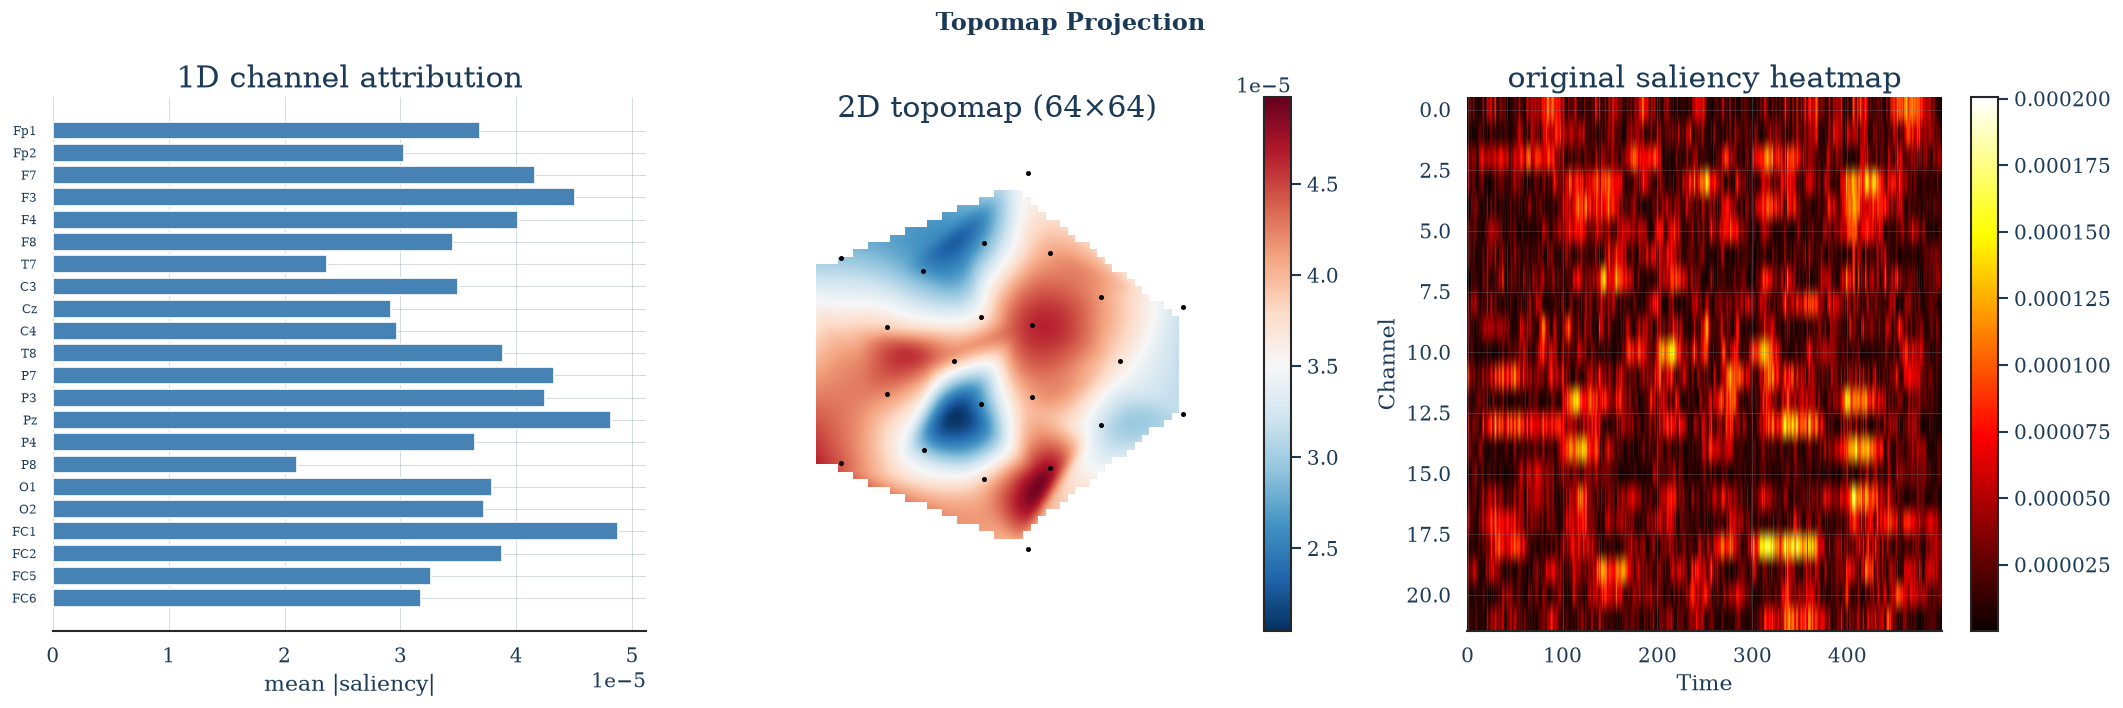
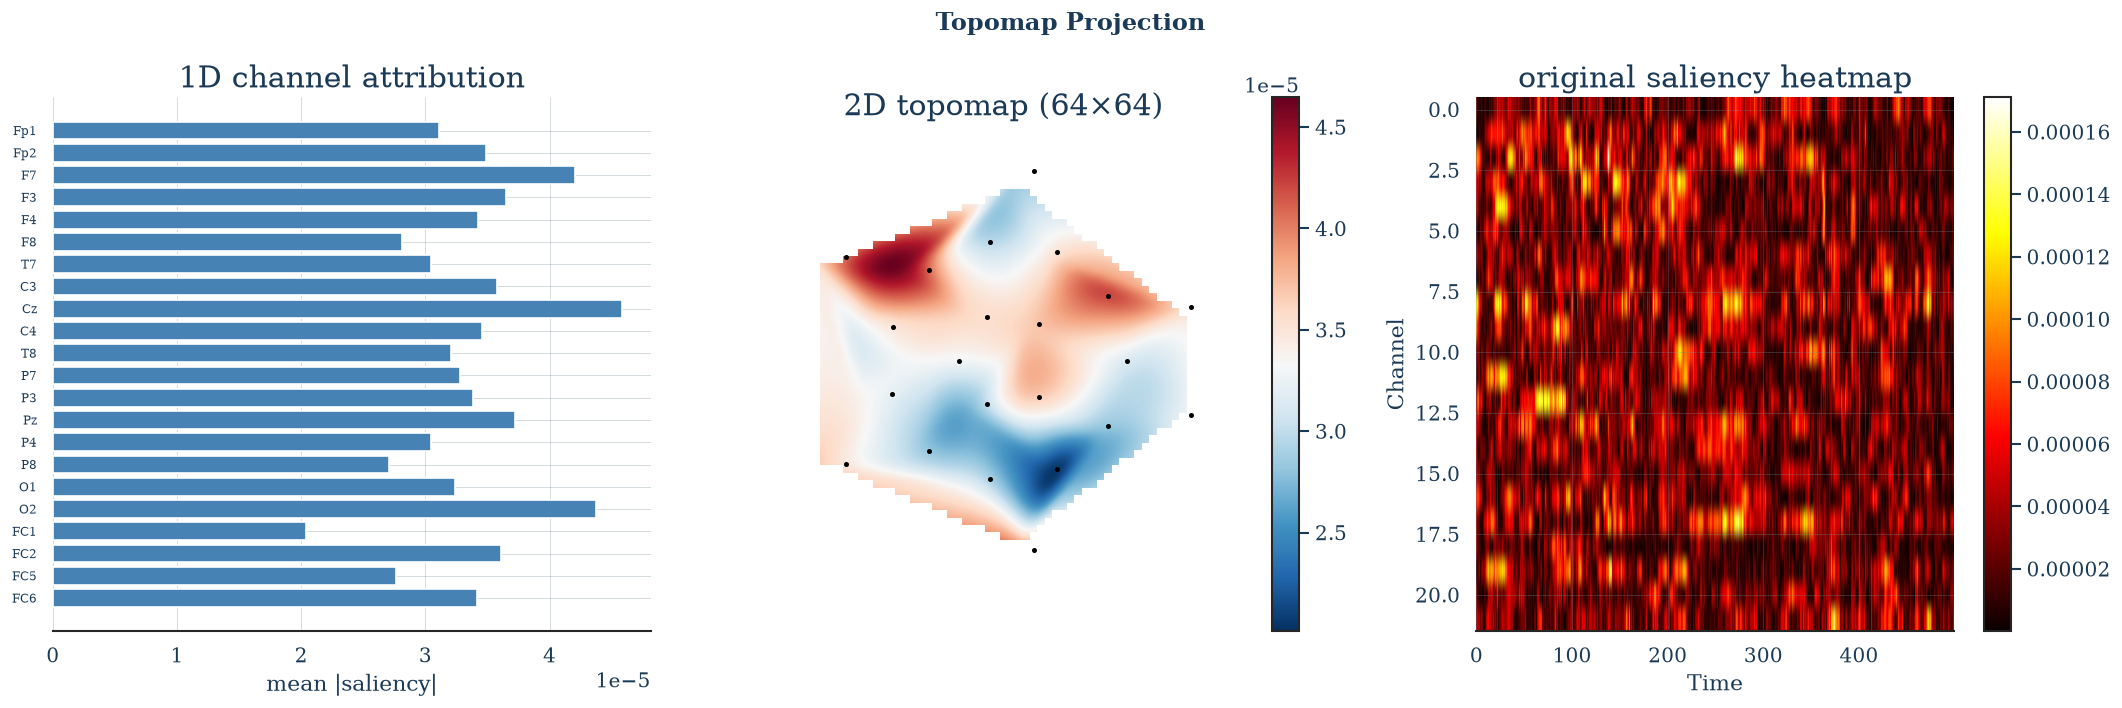
docs(code, viz): 更新教程注释与可视化输出
1. 为地形图绘制添加注释说明
2. 重构模型创建与通道信息初始化流程
3. 修复混淆矩阵配色调用方式
4. 注释掉部分分步教程执行代码
5. 新增多张可视化结果图片

diff --git a/src/braindecode_learning/07_viz_step_by_step.py b/src/braindecode_learning/07_viz_step_by_step.py
@@ -585,8 +585,18 @@ def tutorial_topomap_and_confusion():
 
     # --- 5.2 投影到 2D 头皮 ---
     print("  → project_to_topomap ...")
+    # data 提供 数值 ， chs_info 提供 空间坐标 ， res 决定 输出精度
+    # data (通道值)  +  chs_info (3D坐标)  +  res (网格分辨率)
+    #     ↓                ↓                    ↓
+    # MNE 球体拟合 → 3D坐标投影到2D平面 (pos2d)
+    #     ↓
+    # Clough-Tocher 三角剖分插值
+    #     ↓
+    # 输出 (res, res) 的 2D 头皮热力图
+    # （头皮外区域填充 NaN）
     topomap = project_to_topomap(channel_attr, chs_info, res=64)
-    print(f"  topomap shape: {topomap.shape}")
+    print(f"  topomap shape: {topomap.shape}") # (64, 64)
+    # 统计 topomap 中有多少个有效（非 NaN）网格单元
     print(f"  valid cells: {np.sum(~np.isnan(topomap))}")
 
     # --- 5.3 可视化 ---
@@ -777,32 +787,32 @@ def tutorial_sanity_and_metrics():
 # ============================================================
 
 if __name__ == "__main__":
-    print("╔══════════════════════════════════════════════════════════╗")
-    print("║  Braindecode Visualization — 循序渐进教程              ║")
-    print("║  输出目录: " + str(OUT_DIR))
-    print("╚══════════════════════════════════════════════════════════╝")
+    # print("╔══════════════════════════════════════════════════════════╗")
+    # print("║  Braindecode Visualization — 循序渐进教程              ║")
+    # print("║  输出目录: " + str(OUT_DIR))
+    # print("╚══════════════════════════════════════════════════════════╝")
 
-    print("\n  建议学习顺序:")
-    print("    Tutorial 1 → Saliency Map              (15 min)")
-    print("    Tutorial 2 → Integrated Gradients     (20 min)")
-    print("    Tutorial 3 → 高级归因方法对比          (20 min)")
-    print("    Tutorial 4 → 频域 / 反卷积 / 振幅梯度  (15 min)")
-    print("    Tutorial 5 → 地形图投影 & 混淆矩阵     (15 min)")
-    print("    Tutorial 6 → 健全性检查 & 指标         (20 min)")
+    # print("\n  建议学习顺序:")
+    # print("    Tutorial 1 → Saliency Map              (15 min)")
+    # print("    Tutorial 2 → Integrated Gradients     (20 min)")
+    # print("    Tutorial 3 → 高级归因方法对比          (20 min)")
+    # print("    Tutorial 4 → 频域 / 反卷积 / 振幅梯度  (15 min)")
+    # print("    Tutorial 5 → 地形图投影 & 混淆矩阵     (15 min)")
+    # print("    Tutorial 6 → 健全性检查 & 指标         (20 min)")
 
-    tutorial_saliency()
-    tutorial_integrated_gradients()
-    tutorial_advanced_attribution()
-    tutorial_frequency_and_gradients()
+    # tutorial_saliency()
+    # tutorial_integrated_gradients()
+    # tutorial_advanced_attribution()
+    # tutorial_frequency_and_gradients()
     tutorial_topomap_and_confusion()
-    tutorial_sanity_and_metrics()
+    # tutorial_sanity_and_metrics()
 
-    print("\n" + "=" * 60)
-    print("🎉 全部教程执行完成!")
-    print(f"  所有图片已保存至: {OUT_DIR}")
-    print("\n  下一步建议:")
-    print("    1. 用真实 MOABB 数据替换模拟数据 (见 01_moabb_dataset.py)")
-    print("    2. 用训练好的 EEGClassifier 替换未训练的 EEGNet")
-    print("    3. 阅读 braindecode 官方示例:")
-    print("       https://braindecode.org/stable/auto_examples/")
-    print("=" * 60)
+    # print("\n" + "=" * 60)
+    # print("🎉 全部教程执行完成!")
+    # print(f"  所有图片已保存至: {OUT_DIR}")
+    # print("\n  下一步建议:")
+    # print("    1. 用真实 MOABB 数据替换模拟数据 (见 01_moabb_dataset.py)")
+    # print("    2. 用训练好的 EEGClassifier 替换未训练的 EEGNet")
+    # print("    3. 阅读 braindecode 官方示例:")
+    # print("       https://braindecode.org/stable/auto_examples/")
+    # print("=" * 60)

diff --git a/src/braindecode_learning/06_visualization_interpretability.py b/src/braindecode_learning/06_visualization_interpretability.py
@@ -50,17 +50,7 @@ def setup_environment():
     x_tensor = torch.tensor(x)
     y_tensor = torch.tensor(y)
     
-    # 2. 创建模型 (使用 EEGNet)
-    from braindecode.models import EEGNet
-    
-    # 创建模型 (注意: 需要 chs_info 用于地形图投影)
-    model = EEGNet(
-        n_chans=n_channels,
-        n_outputs=n_classes,
-        n_times=n_times,
-    )
-    
-    # 为模型添加模拟的通道信息 (真实数据中从 mne.Info 获取)
+    # 2. 创建模拟通道信息 (真实数据中从 mne.Info 获取)
     # 简化: 使用 22 个电极的标准 10-20 系统位置
     ch_names = [
         'Fp1', 'Fp2', 'F7', 'F3', 'F4', 'F8',
@@ -86,14 +76,22 @@ def setup_environment():
         loc[2] = 0.0
         chs_info.append({
             'ch_name': name,
-            'loc': loc,  # 注意: 使用 'loc' 而不是 'pos'
+            'loc': loc,
             'kind': 1  # EEG
         })
     
-    # 设置模型的 chs_info (用于 project_to_topomap)
-    model.chs_info = chs_info
+    # 3. 创建模型 (使用 EEGNet)
+    from braindecode.models import EEGNet
     
-    # 3. 进行一次前向传播 (初始化参数)
+    # 将 chs_info 传入构造函数 (chs_info 是只读属性, 必须在初始化时设置)
+    model = EEGNet(
+        n_chans=n_channels,
+        n_outputs=n_classes,
+        n_times=n_times,
+        chs_info=chs_info,
+    )
+    
+    # 4. 进行一次前向传播 (初始化参数)
     model.eval()
     with torch.no_grad():
         output = model(x_tensor)
@@ -663,7 +661,7 @@ def tutorial_confusion_matrix():
         confusion_mat,
         class_names=class_names,
         with_f1_score=True,  # 显示 F1 分数
-        colormap="Oranges",
+        colormap=plt.cm.Oranges,
     )
     fig_braindecode.savefig("confusion_matrix_braindecode.png", dpi=100, bbox_inches="tight")
     print(f"  ✅ Braindecode 增强版已保存: confusion_matrix_braindecode.png")

diff --git a/src/braindecode_learning/05_visualization.py b/src/braindecode_learning/05_visualization.py
@@ -522,6 +522,7 @@ def tutorial_combined_visualization():
     # 3. 地形图示意
     ax = fig.add_subplot(3, 3, 3)
     theta = np.linspace(0, 2 * np.pi, 100)
+    # 这行代码用 参数方程 在子图上绘制一个 单位圆 （半径=1），作为头皮拓扑图（topomap）的 外轮廓边界 。
     ax.plot(np.cos(theta), np.sin(theta), "k-", linewidth=2)
     for a in np.linspace(0, 2 * np.pi, 22, endpoint=False):
         ax.scatter(0.7 * np.cos(a), 0.7 * np.sin(a), c=[plt.cm.RdYlBu(np.random.rand())], s=100, edgecolors="black")
